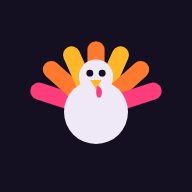
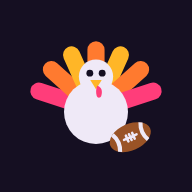
Thanksgiving mark: add a small striped football
A little football tucked beside the turkey, with the white end stripes of a
Canadian ball. Icon renders regenerated.

Claude-Session: https://claude.ai/code/session_01XYfcWeqyKQYwUKgcPi52nD

Changed region(s): [[0.5625, 0.625, 0.7812, 0.8125]]

diff --git a/index.html b/index.html
@@ -888,6 +888,11 @@
     <circle cx="34.7" cy="26" r="1.5" fill="#150f22"/>
     <path fill="#ffb627" d="M29.5 29h5L32 33z"/>
     <path fill="#ff3d7a" d="M32.5 31.5c2 .5 2.5 2.5 1.8 4.5-.4 1-1.7 1-2-.1-.4-1.5-.3-3 .2-4.4z"/>
+    <g transform="rotate(-24 47 54)">
+      <ellipse cx="47" cy="54" rx="9.5" ry="5.8" fill="#9a5326"/>
+      <path d="M40.3 49.9c1.3 2.6 1.3 5.6 0 8.2M53.7 49.9c-1.3 2.6-1.3 5.6 0 8.2" fill="none" stroke="#efe9f7" stroke-width="1.8"/>
+      <path d="M44 54h6M45.5 52.6v2.8M47 52.6v2.8M48.5 52.6v2.8" stroke="#efe9f7" stroke-width="1.1" stroke-linecap="round"/>
+    </g>
   </symbol>
   <symbol id="g-glove-santa" viewBox="0 0 64 64">
     <polygon points="15.0,45.5 8.0,48.0 15.0,48.0" fill="#e3e6f0"/>

diff --git a/README.md b/README.md
@@ -43,7 +43,7 @@ A holiday with `glove` and `icons` also swaps the browser-tab icon, the Apple
 touch icon and the manifest, using the `icons` suffix (`site-<icons>.webmanifest`,
 `favicon-32-<icons>.png`, `apple-touch-icon-<icons>.png`, `icon-192/512-<icons>.png`).
 Those PNGs are renders of the sprite symbol, so re-render them if it changes.
-Current sets: `thanks` (a plain turkey, `#g-turkey` — no glove) and `holiday` (holly glove).
+Current sets: `thanks` (a plain turkey with a small striped football, `#g-turkey` — no glove) and `holiday` (holly glove).
 Each entry switches itself on and off by date. Pair it with a `DAILY_WORD_PINS`
 entry for an on-theme word.
 
